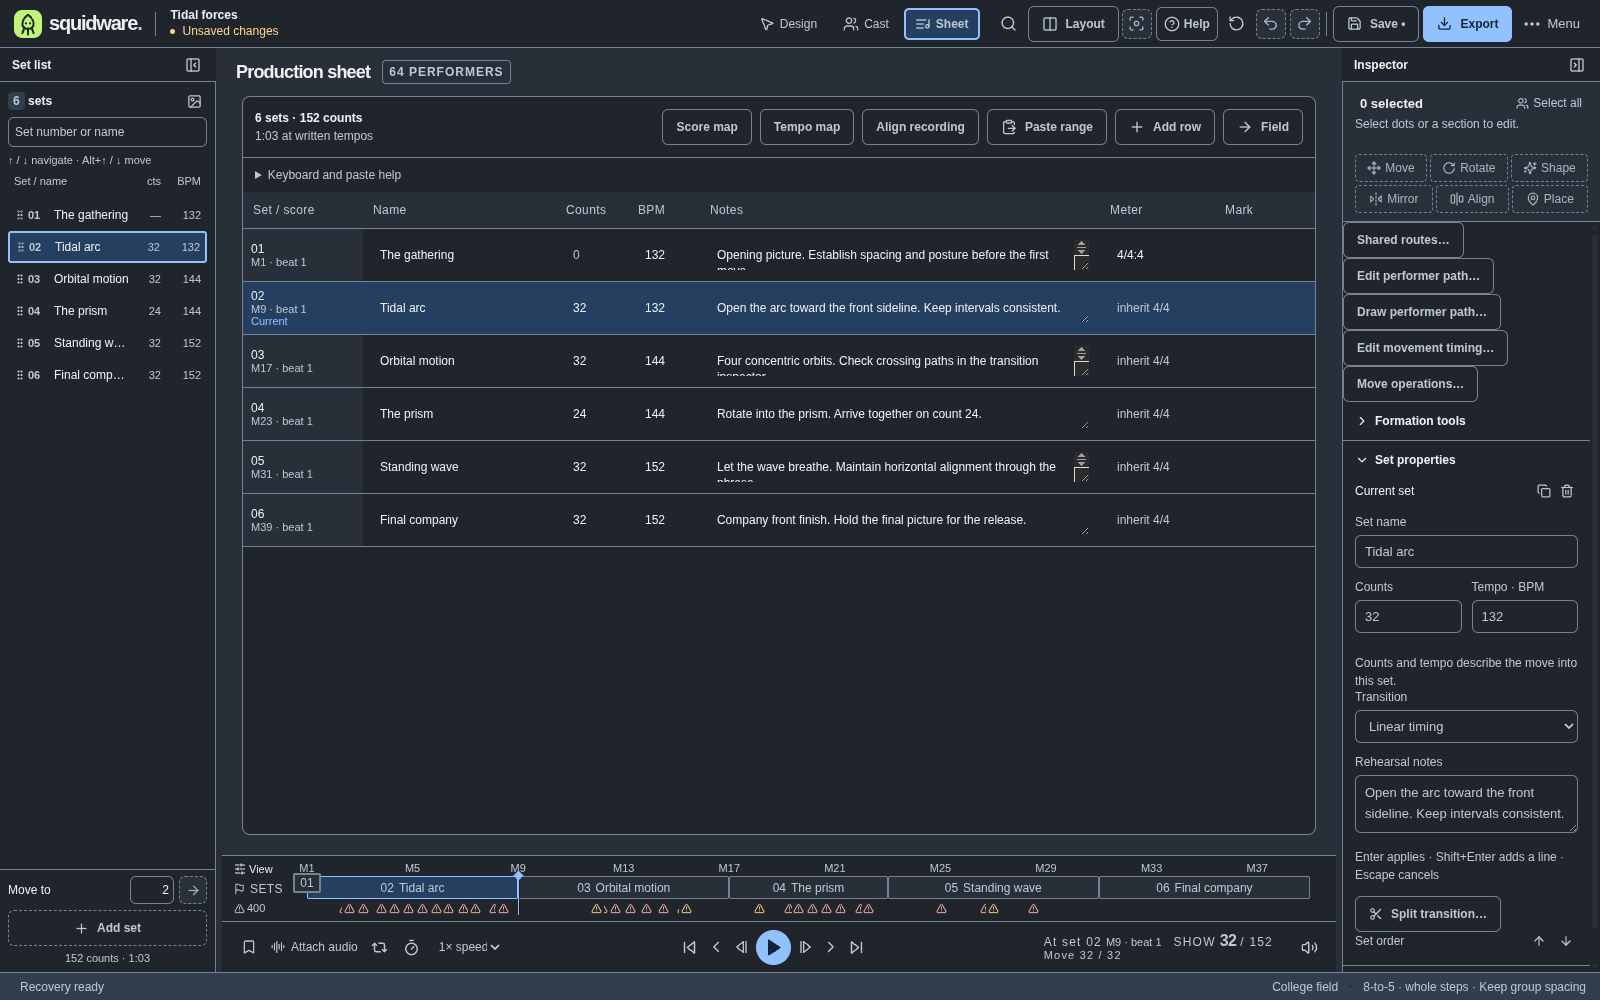
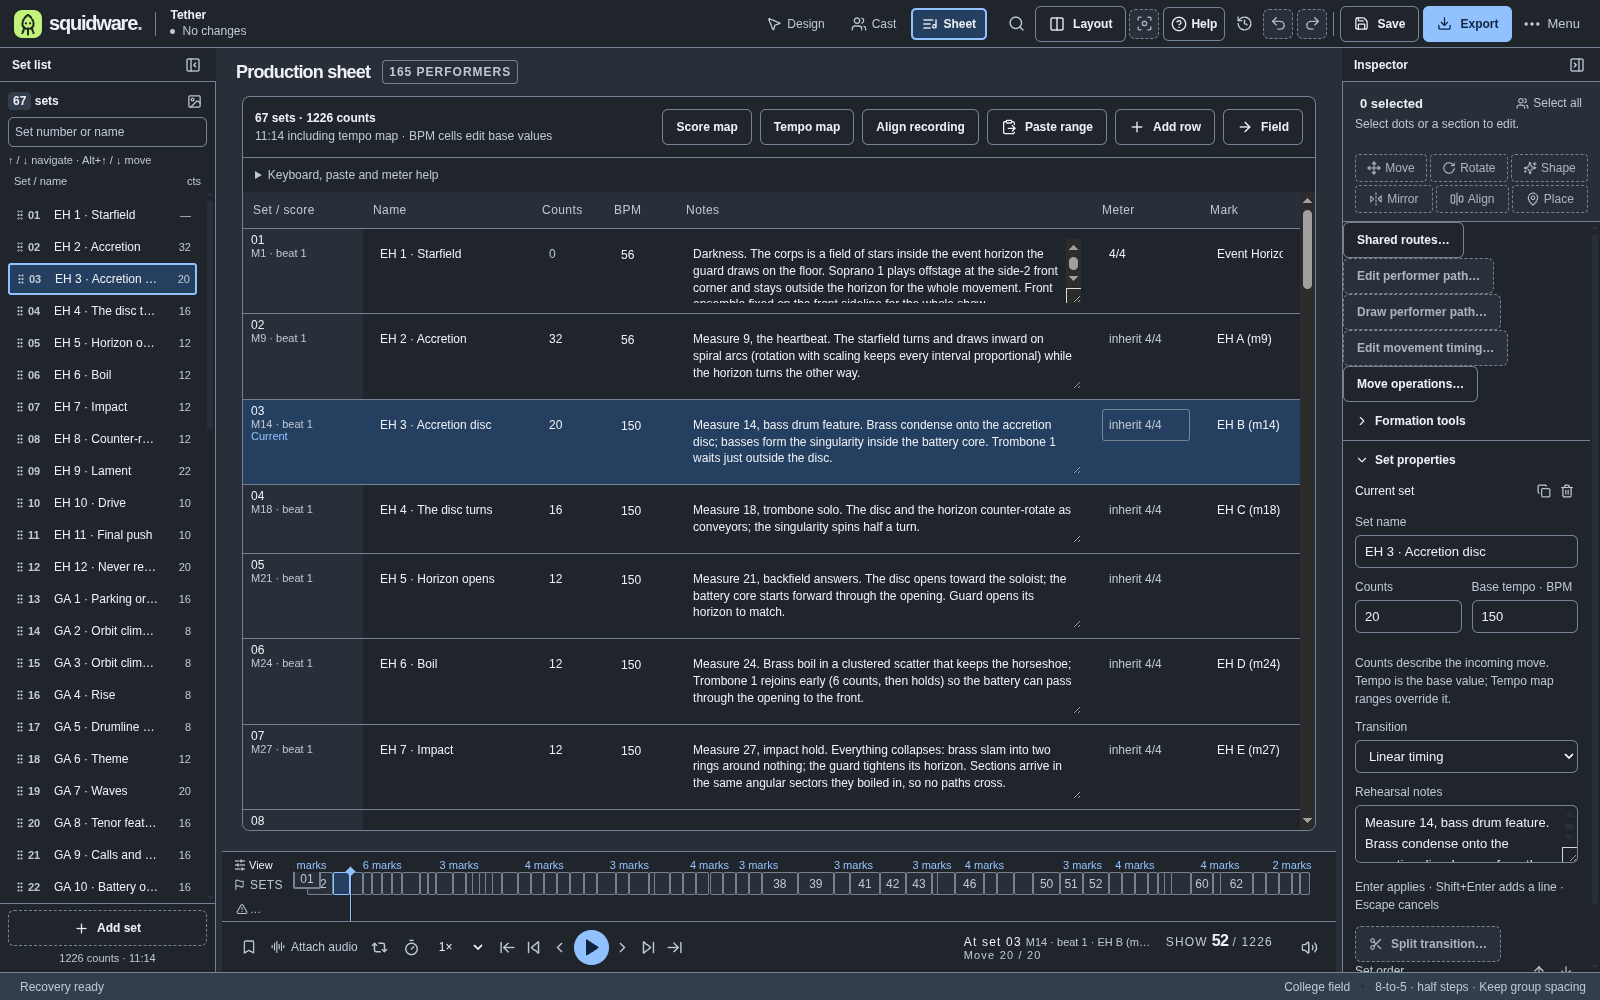
Capture current Tether demo and document updated workspace UX

diff --git a/README.md b/README.md
@@ -8,11 +8,11 @@ Write formations, refine transitions, rehearse in 3D, and export the next rehear
 
 > **Release and development:** v0.6.0 is the newest published prerelease. This README and its screenshots show current `main`, including unreleased musical timing, editable travel paths, reusable formations and group route movement. [Run from source](#run-from-source) to use these features.
 
-![The Tidal forces demo in Squidware's 2D editor, with 24 brass performers selected, compact set navigation, a contextual Inspector and the musical timeline](docs/images/studio.png)
+![The Tether demo in Squidware's updated 2D editor, with 24 sopranos selected in the Accretion disc set, compact set navigation, a contextual Inspector and the musical timeline](docs/images/studio.png)
 
 ## Design with precision
 
-Start with **Tether**, the bundled demo: a full 165-member drum corps show in four movements, written to Squidwriter's Space show with curvilinear forms, scatters, orbiting conveyors, follow-the-leader cables, a counter-march and a company front ([about the demo](examples/README.md)). Or create a blank production and import your cast. The field supports up to **500 performers and 128 sets**.
+Start with **Tether**, the bundled demo: a full 165-member drum corps show with 67 sets in four movements, written to Squidwriter's Space show with curvilinear forms, scatters, orbiting conveyors, follow-the-leader cables, a counter-march and a company front ([about the demo](examples/README.md)). Or create a blank production and import your cast. The field supports up to **500 performers and 128 sets**.
 
 | Your next step | Tools in the workspace |
 | --- | --- |
@@ -22,13 +22,15 @@ Start with **Tether**, the bundled demo: a full 165-member drum corps show in fo
 | Shape and refine | Preview [lines, arcs, circles, blocks and waves](docs/FORMATION_PREVIEWS.md), editable Bézier curves and seeded scatter; [rotate, scale and mirror](docs/EXACT_TRANSFORMS.md); set [alignment and exact intervals](docs/SPACING_ALIGNMENT.md). |
 | Connect the sets | Previous/next ghosts and paths, counts and tempo per move, distinct New/Duplicate/Insert/Hold actions, and a [sampled transition split](docs/split-transition.md). |
 
-Formation, transform and spacing tools preview the result before Apply. Accepted edits use named undo actions; Cancel keeps the original picture. The contextual Inspector keeps selection actions visible while you work. Resize or collapse panels, switch **Write / Review / Rehearse** layouts, or focus the field and timeline with an explicit Exit focus action. Dark, light and high-contrast themes, UI scaling and panel layouts change the workspace without changing drill geometry.
+Formation, transform and spacing tools preview the result before Apply. Accepted edits use named undo actions; Cancel keeps the original picture. The contextual Inspector keeps selection actions and preview Apply/Cancel controls in view. Resize or collapse panels, switch **Write / Review / Rehearse** layouts, or focus the field and timeline. Cast docks beside the field; on smaller windows, panels tuck behind Show controls or open over the field.
+
+The workspace adapts to window size and UI scale. The compact transport moves loop, metronome and speed into **More playback options**. Preferences groups **Appearance**, **Field display**, **Editing** and **Shortcuts**, with dark, light and high-contrast themes. Display and layout choices leave drill geometry unchanged. See the [workspace guide](docs/WORKSPACE_LAYOUT.md).
 
 ## Shape the movement
 
 Pause at an arrival set and select one performer to **Edit performer path**. Refine a cubic curve with field handles or exact coordinates, then scrub its count ticks before Apply. **Draw performer path** adds stroke fitting and intermediate anchors; holds and timed submoves let performers depart and arrive independently.
 
-![An unapplied Bézier travel-path preview for performer B10 at 2× field zoom, with draggable handles, exact control coordinates, count ticks and Apply/Cancel controls](docs/images/travel-path.png)
+![An unapplied Bézier travel-path preview for Tether performer S16 into Lament at 2× field zoom, with draggable handles, exact control coordinates, count ticks and Apply/Cancel controls](docs/images/travel-path.png)
 
 | Build on your work | Current tools |
 | --- | --- |
@@ -43,7 +45,7 @@ Path and movement edits use reviewed previews and named undo actions. See [indiv
 
 Edit set names, counts, tempos and notes in the **Production sheet**. Navigate cells with the keyboard or review a CSV/TSV paste before applying the range as one undoable edit. Add pickups, meter changes and rehearsal marks through the **Score map**; measure/beat readouts and the metronome use the same count axis. Preview [tempo ranges, linear BPM ramps and timed fermatas](docs/tempo-map.md) with one undoable Apply; playback and the metronome share the map.
 
-![The editable Production sheet for Tidal forces, showing six sets with names, incoming counts, tempos, notes and musical positions, plus Score map and Paste range controls](docs/images/production-sheet.png)
+![Tether's editable Production sheet, showing the opening rows of its 67-set show with multiline notes, incoming counts, base tempos, readable meters and rehearsal marks](docs/images/production-sheet.png)
 
 Use the [compact set list](docs/set-list.md) to search by number or name, reorder by drag or direct position, and enable thumbnails when useful. The [Production sheet guide](docs/production-sheet.md) and [Score map guide](docs/score-map.md) explain editing and timing rules.
 
@@ -51,15 +53,15 @@ Use the [compact set list](docs/set-list.md) to search by number or name, reorde
 
 Switch from the 2D field to an orbitable **3D preview**, with perspective, front and overhead cameras, or open it in a separate [3D window](docs/USER_GUIDE.md#3d-window) that follows the editor, for example on a second display. Scrub by count, change rehearsal speed, loop the show, or save an annotated passage for a section or selected performers. Attached audio drives the show clock, with a sync offset, meter-aware metronome and count-in. Use [recording anchors](docs/audio-alignment.md) to align set arrivals and individual counts to variable-tempo recordings, with waveform/tap assistance and an undoable preview.
 
-![Squidware's live 3D preview of the Orbital motion set, with section-colored performer markers, perspective camera controls and the shared show timeline in the Rehearse layout](docs/images/rehearsal-3d.png)
+![Squidware's live 3D preview of Tether's Accretion disc set, with 165 section-colored performer markers, perspective camera controls and the shared show timeline in the Rehearse layout](docs/images/rehearsal-3d.png)
 
-[Show-wide problems](docs/show-wide-problems.md) flag minimum spacing and excessive stride and take you to the affected count and performers. [Production, section and direction rules](docs/analysis-rules.md) travel with the project. Checks describe performer-center geometry; review physical clearance and traffic separately.
+[Show-wide problems](docs/show-wide-problems.md) flag minimum spacing and excessive stride and take you to the affected count and performers. Timeline markers group nearby findings so you can review them from the affected move. [Production, section and direction rules](docs/analysis-rules.md) travel with the project. Checks describe performer-center geometry; review physical clearance and traffic separately.
 
 ## Bring the recording with you
 
-Choose **Export → Portable production with audio** to bundle the recording in a `.squidpack` file or reference it relative to the package folder. Review the contents and size before export. Opening the package restores its recording and offset; a missing or changed reference offers an explicit relink action while keeping the drill intact.
+**Export** groups field charts and performer coordinate sheets under **PDF drill book**. **Other formats** offers coordinate CSV, the current chart as SVG and **Portable production with audio**. Choose the portable production to bundle the recording in a `.squidpack` file or reference it relative to the package folder. Review the contents and size before export. Opening the package restores its recording and offset; a missing or changed reference offers an explicit relink action while keeping the drill intact.
 
-![Portable production export showing bundled audio, six drill sets, a two-second sync offset, recording size and estimated package size before export](docs/images/portable-audio.png)
+![Portable production export for Tether showing 67 drill sets, a generated recording, a two-second sync offset and the estimated package size before export](docs/images/portable-audio.png)
 
 [Portable audio packages](docs/AUDIO_PACKAGES.md) support WAV, MP3, OGG, M4A and FLAC up to 200 MiB, subject to decoder support. Export the package again after edits or relinking.
 
@@ -108,7 +110,7 @@ The [user guide](docs/USER_GUIDE.md) covers the full workflow, including roster 
 
 ### Keyboard essentials
 
-Use `Ctrl` on Windows/Linux and `⌘` on macOS. Defaults can be changed in **Preferences → Keyboard shortcuts**.
+Use `Ctrl` on Windows/Linux and `⌘` on macOS. Defaults can be changed in **Preferences → Shortcuts**.
 
 | Action | Shortcut |
 | --- | --- |

diff --git a/docs/images/README.md b/docs/images/README.md
@@ -1,15 +1,15 @@
 # README screenshots
 
-Captured 2026-11-10 from the production desktop app built at source commit `329917506d42d89a0771f66665bd12a96b1f10e1` (merged main after #172), before this documentation refresh. These images show development features; the root README distinguishes them from the published v0.6.0 prerelease.
+Captured 2026-11-10 from the production desktop app built at source commit `e279177522dfec0826816e92e4971fbc11bb36dc` (branch synced with main through #186), before the final documentation edits. These images show development features; the root README distinguishes them from the published v0.6.0 prerelease.
 
-All captures use an isolated profile, the included Tidal forces demo, dark theme, default UI scale and a 1600 × 1000 content viewport. The production main process, preload and renderer run under Xvfb on Linux. No application styles or displayed UI content were replaced. [Capture metadata and image hashes](captures.json) record source/build identity, viewport dimensions, crops, view and cumulative WebGL draw counts. The capture run reported no renderer errors.
+All captures use an isolated profile, the included Tether demo (165 performers, 67 sets), dark theme, default UI scale and a 1600 × 1000 content viewport. The production main process, preload and renderer run under Xvfb on Linux. No application styles or displayed UI content were replaced. [Capture metadata and image hashes](captures.json) record source/build identity, viewport dimensions, crops, view and cumulative WebGL draw counts. The capture run reported no renderer errors.
 
 | Image | State |
 | --- | --- |
-| [studio.png](studio.png) | Set 2, Tidal arc; Brass selected; Write layout with compact set list and contextual Inspector. |
-| [production-sheet.png](production-sheet.png) | Editable Sheet workspace with six demo sets, counts, tempos, notes and measure/beat positions. |
-| [rehearsal-3d.png](rehearsal-3d.png) | Set 3, Orbital motion; Rehearse layout, perspective camera and detailed shadows. The real Three.js scene was rendered using SwiftShader. |
-| [travel-path.png](travel-path.png) | Set 2, B10 selected; Edit performer path, cubic Bézier preview at 2× field zoom. Controls are (40.17, 12.67) and (50.34, 39.83) yards, with the default count-16 preview. The draft was canceled after capture. Cropped around the renderer's dialog with a 24 px margin, bounded by the viewport. |
-| [portable-audio.png](portable-audio.png) | Export → Portable production with audio; generated 80-second PCM recording and a two-second offset. Captured directly around the native renderer's dialog bounds with a 24 px margin for readability. No private audio was used or committed. |
+| [studio.png](studio.png) | Set 3, EH 3 · Accretion disc; 24 Sopranos selected; Write layout with compact set list and contextual Inspector. |
+| [production-sheet.png](production-sheet.png) | Editable Sheet workspace showing the opening rows of the 67-set demo, multiline notes, base tempos, meters and rehearsal marks. |
+| [rehearsal-3d.png](rehearsal-3d.png) | Set 3, EH 3 · Accretion disc; Rehearse layout, perspective camera and detailed shadows. The real Three.js scene was rendered using SwiftShader. |
+| [travel-path.png](travel-path.png) | Set 9, EH 9 · Lament; S16 selected; Edit performer path, cubic Bézier preview at 2× field zoom. Controls are (64.66, 35.75) and (69.95, 14.48) yards, with the default count-11 preview. The draft was canceled after capture. Cropped around the renderer's dialog with a 24 px margin, bounded by the viewport. |
+| [portable-audio.png](portable-audio.png) | Export → Portable production with audio; generated 80-second PCM recording excerpt and a two-second offset. Captured directly around the native renderer's dialog bounds with a 24 px margin for readability. No private audio was used or committed. |
 
 The screenshots are product illustrations, not additional functional or hardware certification. Desktop workflow acceptance remains in the owning suites documented in [the testing guide](../TESTING.md).
